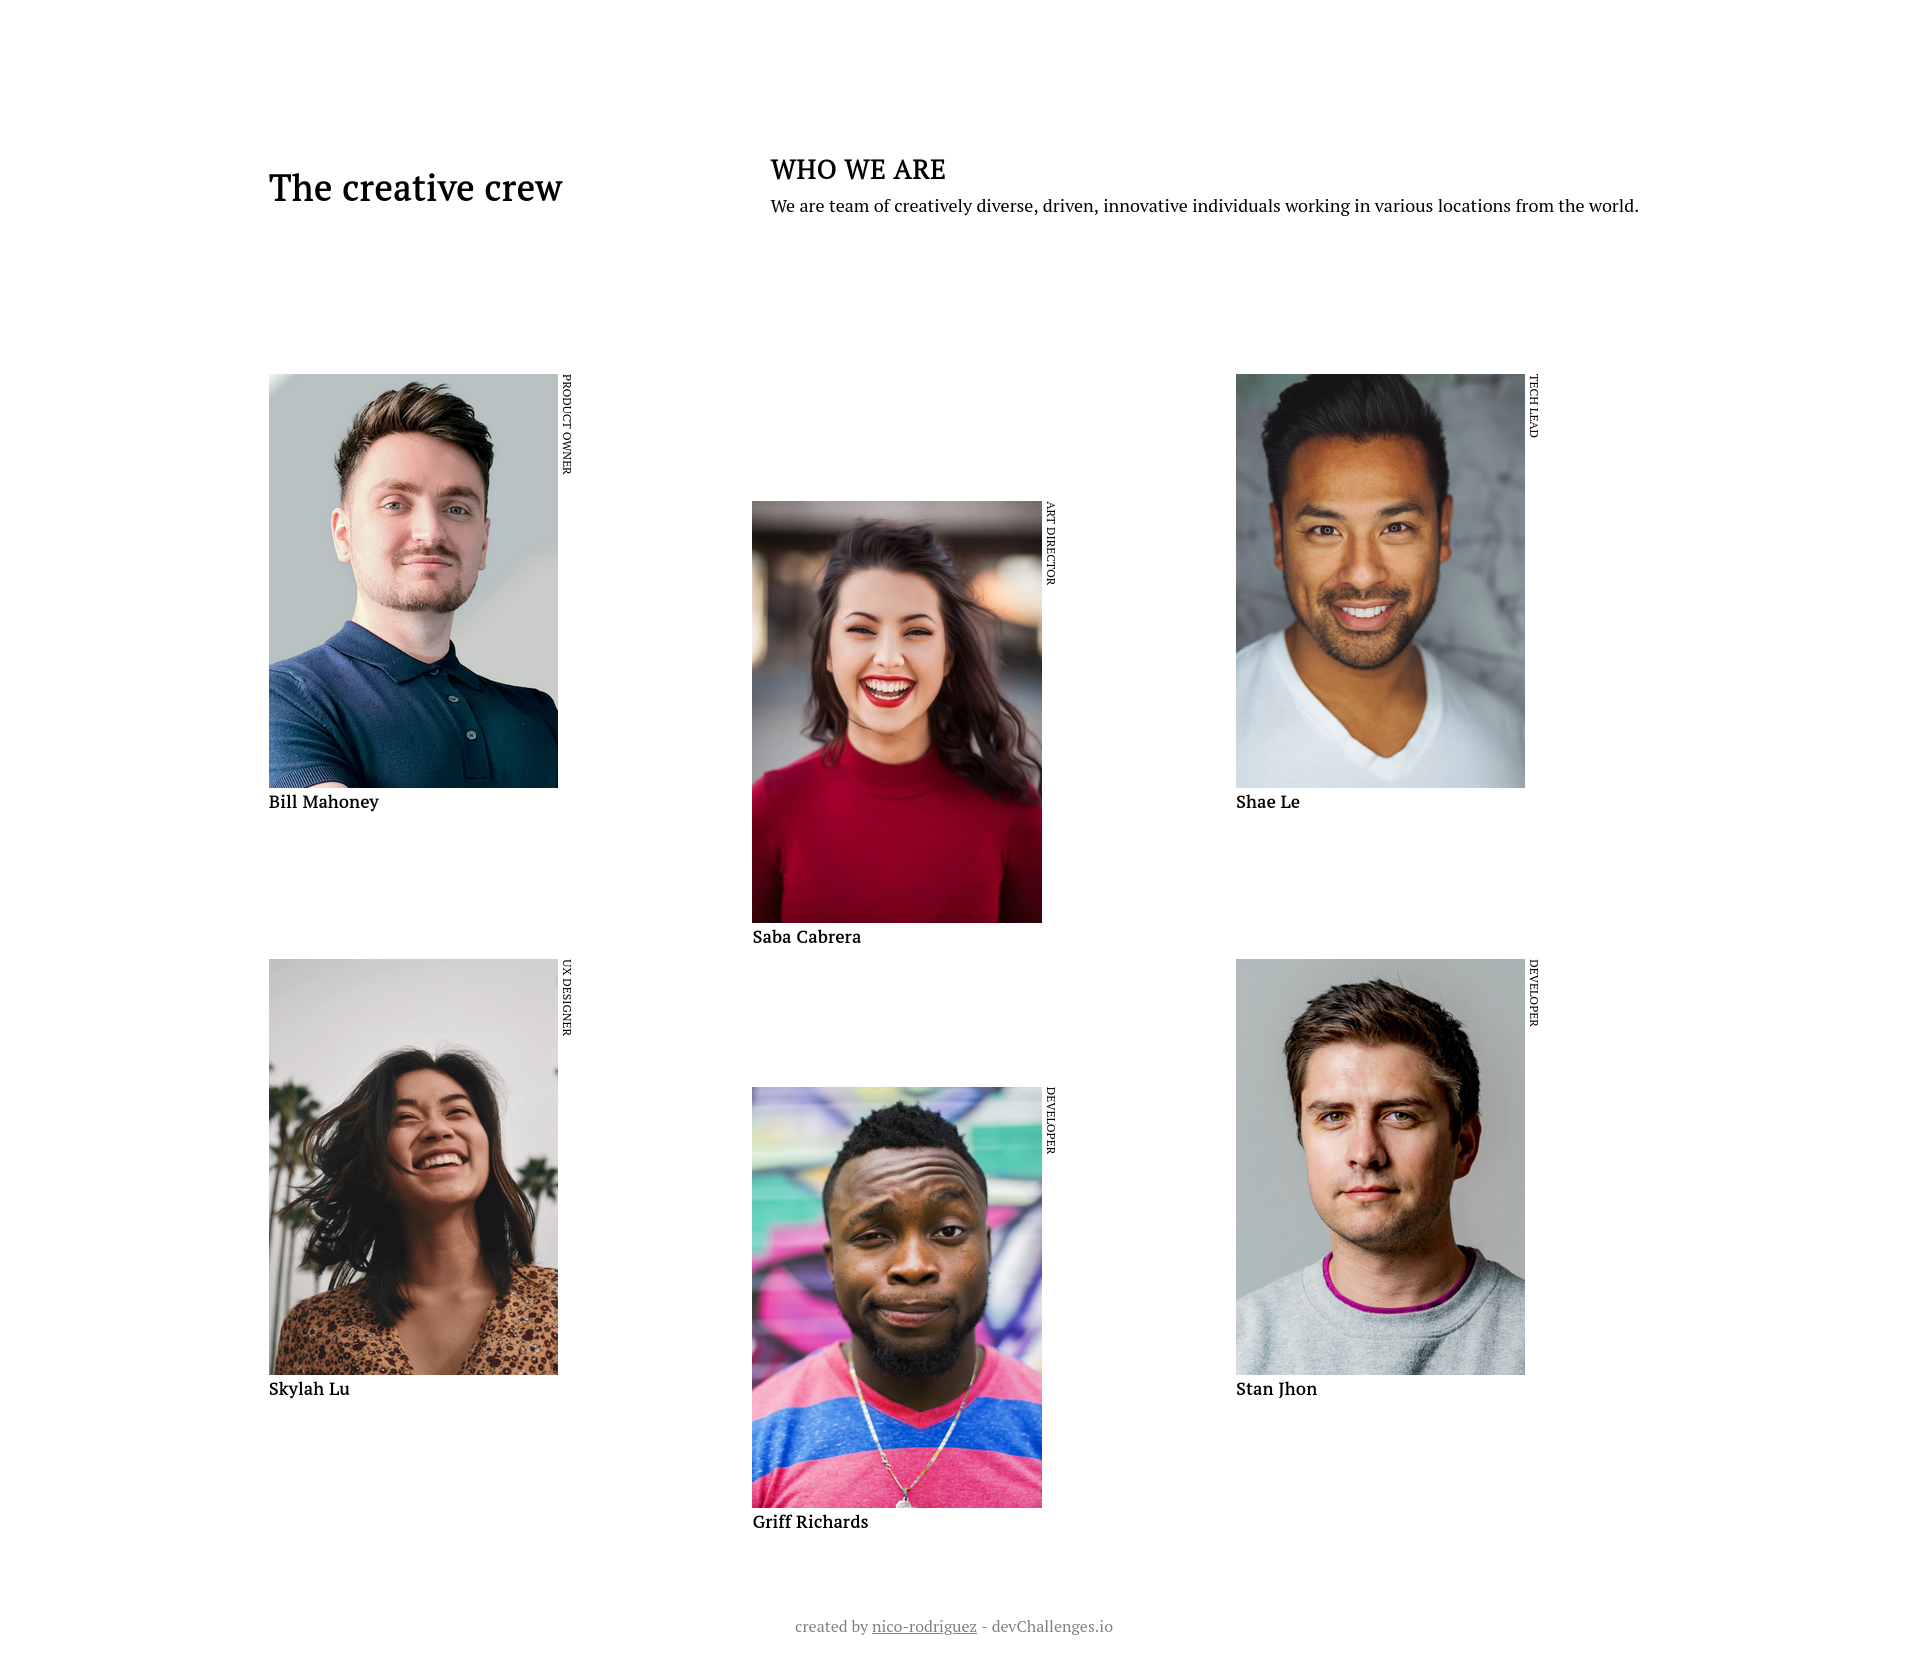
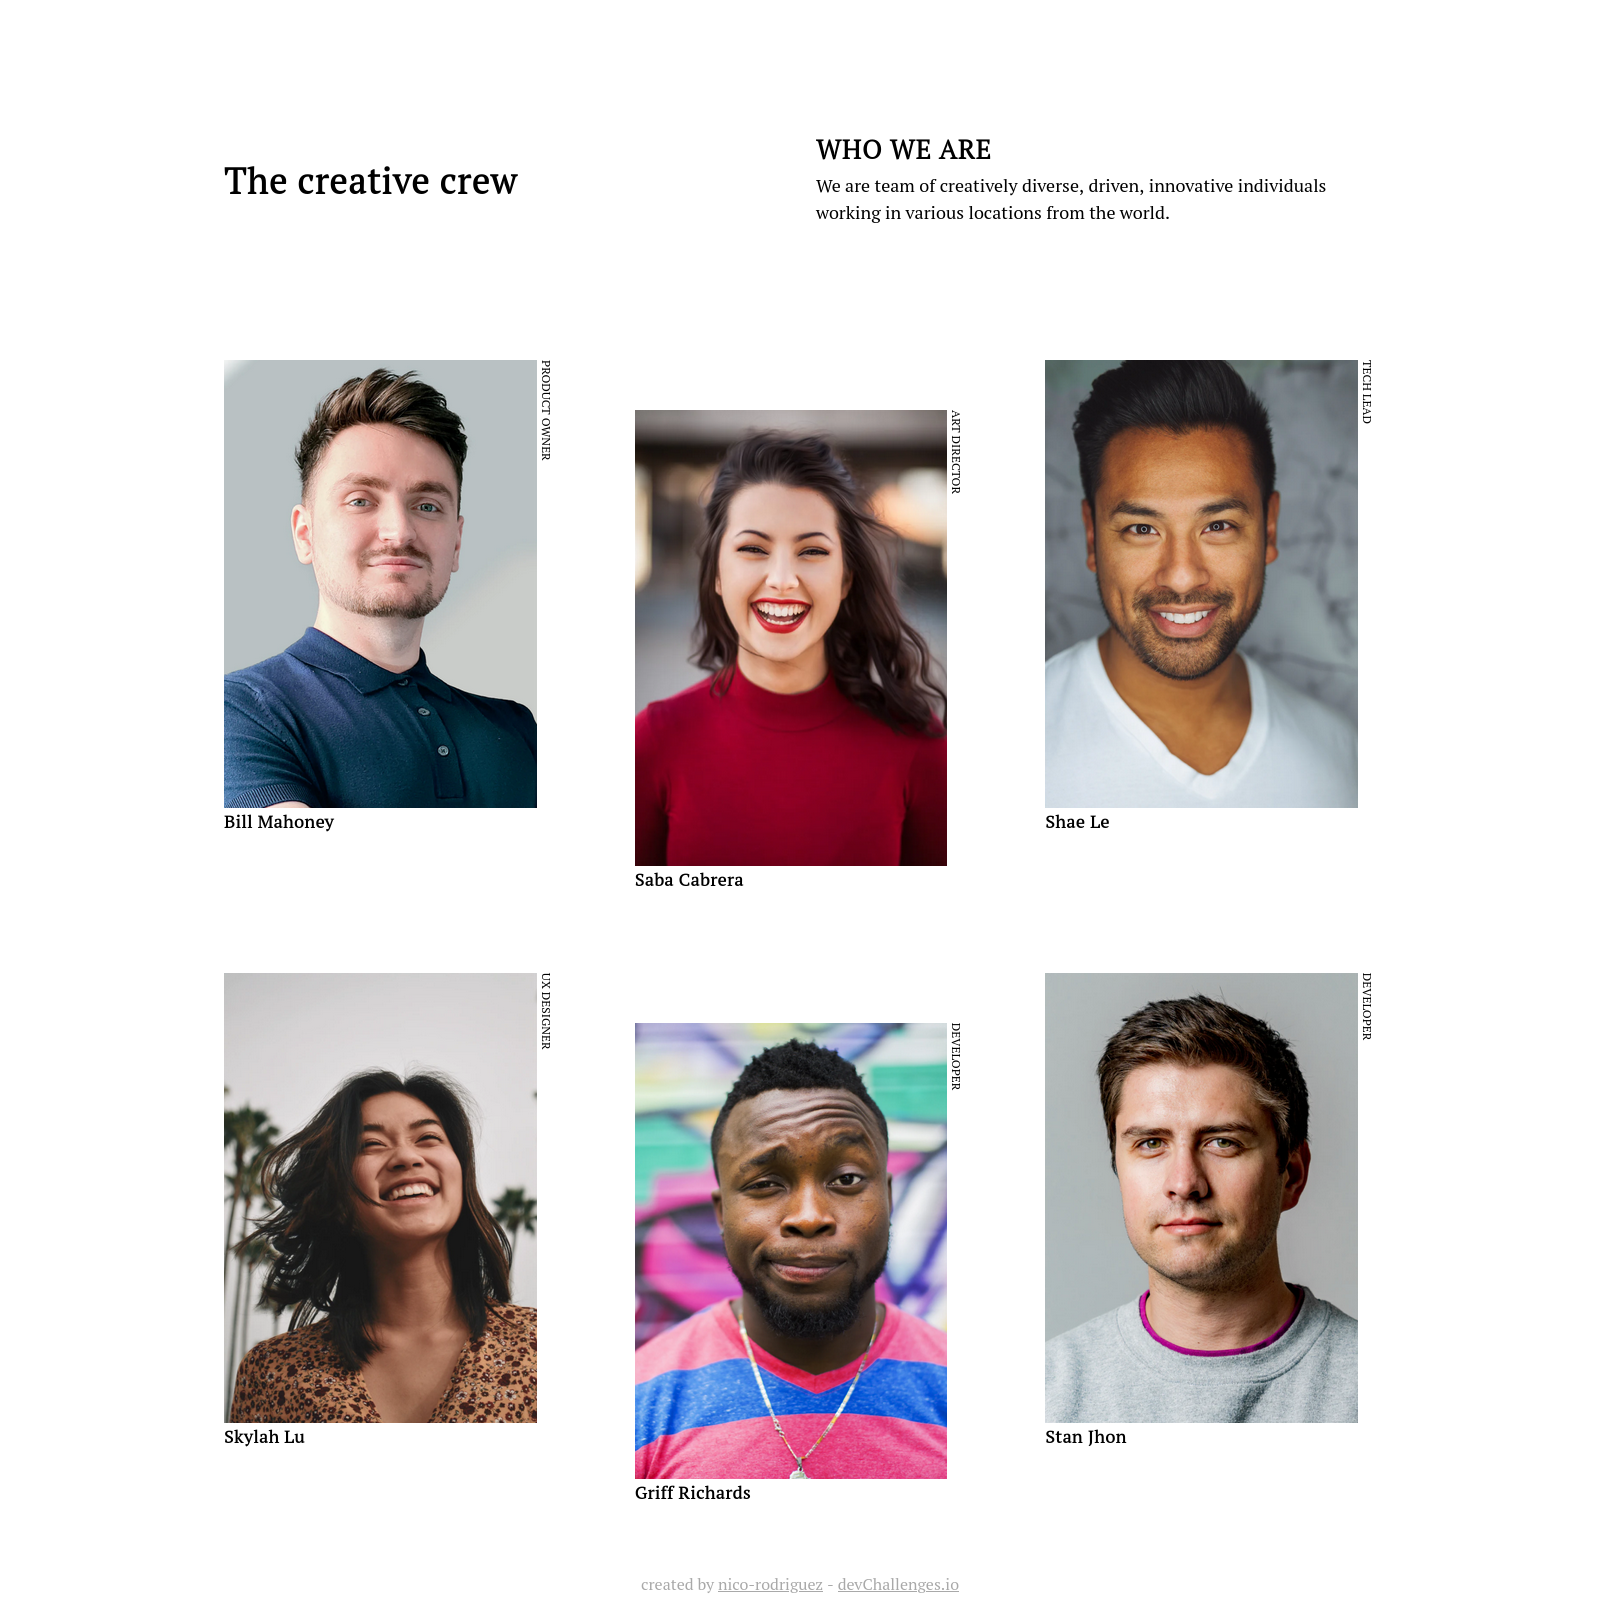
docs: Update screenshots and description

diff --git a/my-team-page/README.md b/my-team-page/README.md
@@ -32,4 +32,4 @@ Mobile
 
 This application/site was created as a submission to a [DevChallenges](https://devchallenges.io/challenges) challenge. The [challenge](https://devchallenges.io/challenges/hhmesazsqgKXrTkYkt0U) was to build an application to complete the given user stories.
 
-The images are positioned differently with respect to each other. This is done through media queries and child selectors. On large screen devices, there are three images per row (`flex-wrap: wrap` is used), so the child `3n-1` are aligned at `flex-end`. These correspond to the child positioned at the middle of each row. The rest of the child are aligned at `flex-start`. This creates the zig-zag effect. On small screen devices, there are two images per row, so the even child are aligned at `flex-end`, while the odd ones are aligned at `flex-start`.
+The images are positioned differently with respect to each other. This is done through CSS grid, media queries and child selectors. On large screen devices, the grid has 3 columns and the children `3n-1` are given a margin at the top. These correspond to the child positioned at the middle of each row. The rest of the children don't have margin at the top. This creates the zig-zag effect. On small screen devices, the grid has 2 columns, so now the even children are given the margin at the top.
